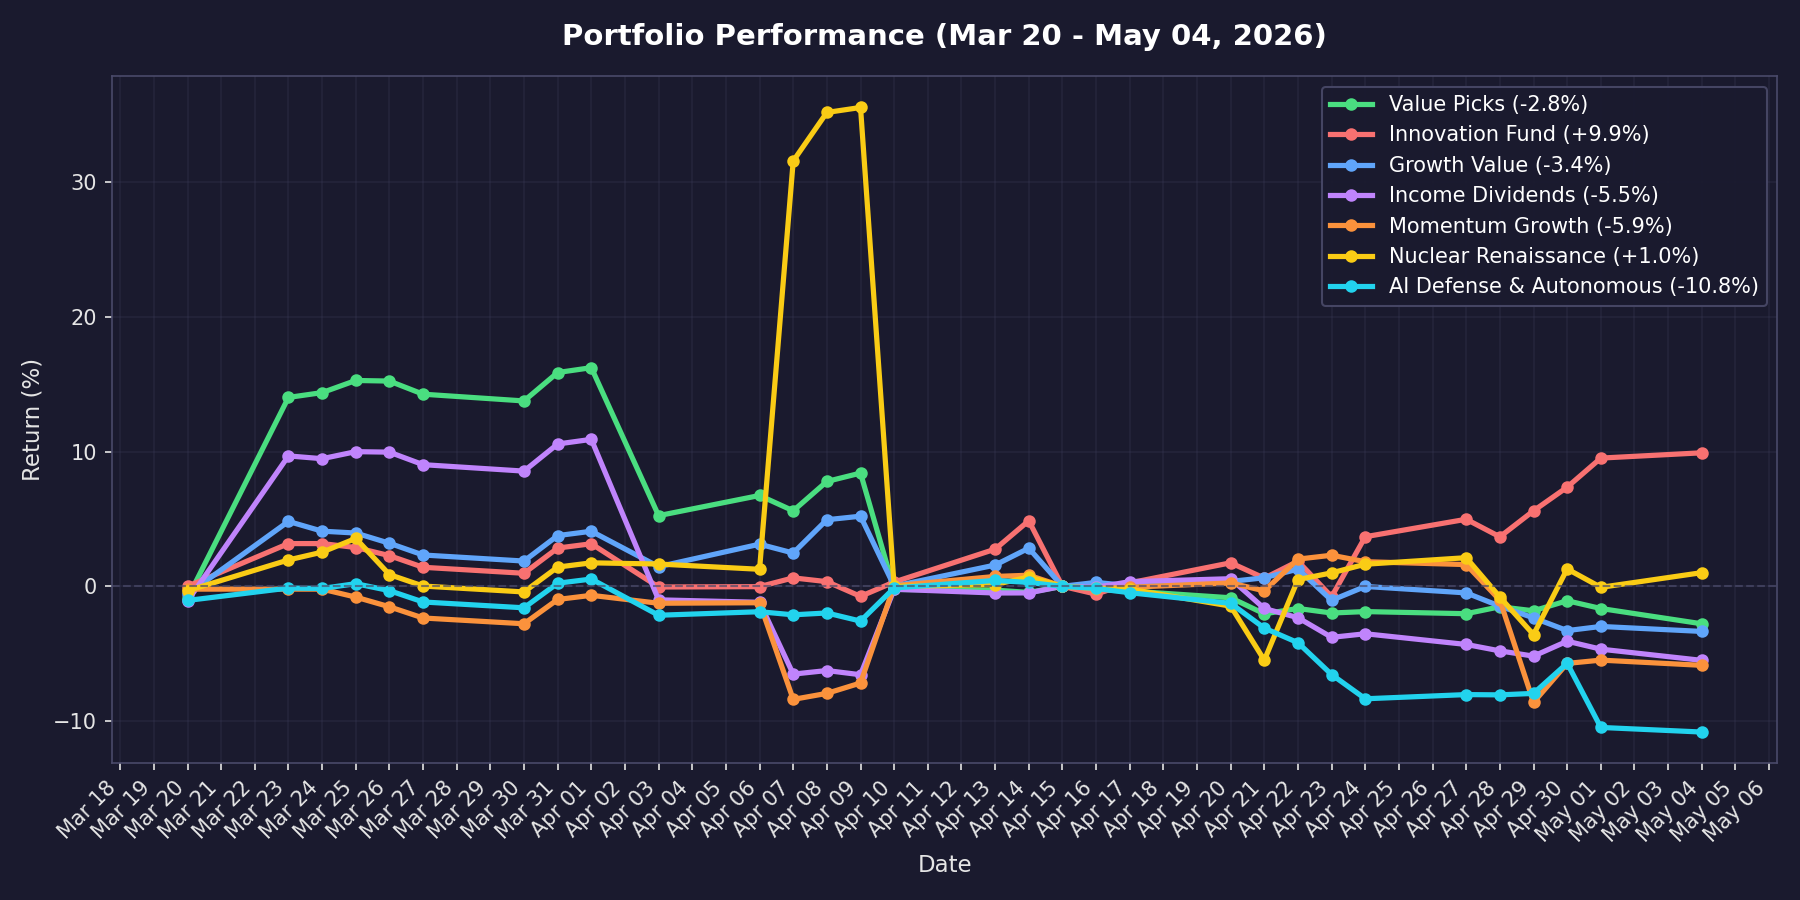
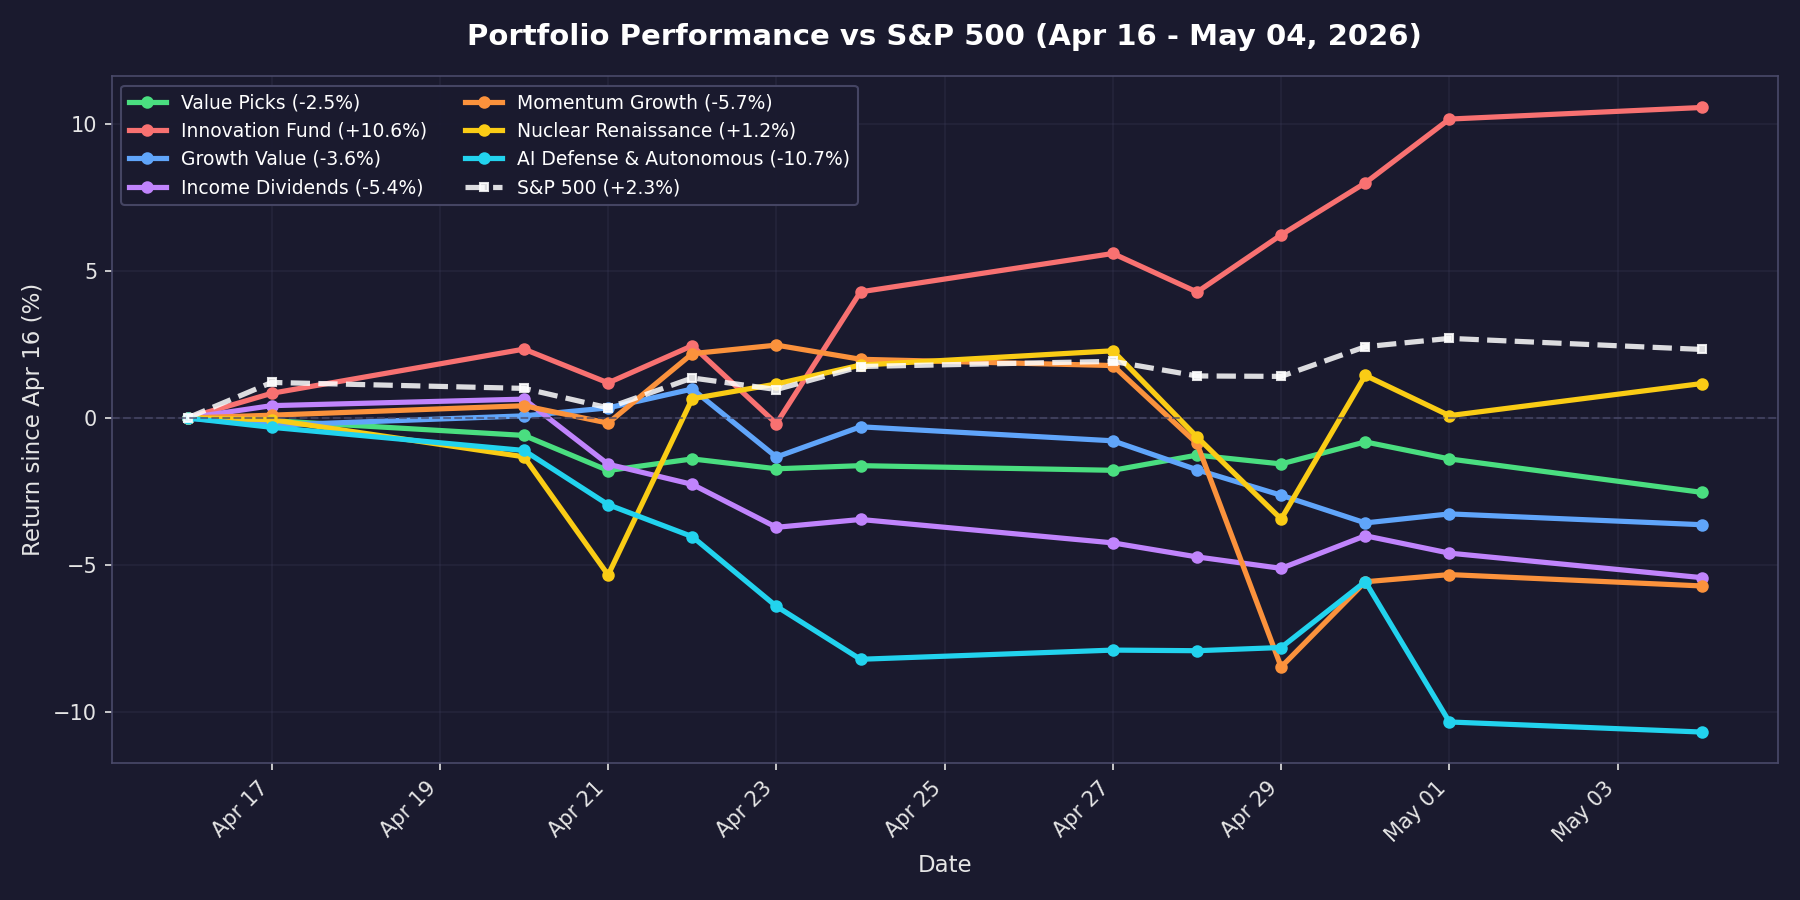
Add S&P 500 benchmark to performance chart, rebase to Apr 16 baseline
The portfolio performance chart now starts at the April 16 2026 refactor
date and rebases each portfolio to 0% on that day, so all lines (and the
new SPY benchmark) are directly comparable. SPY closes are pulled from
yfinance and rendered as a white dashed line; the chart still works if
the yfinance fetch fails (no benchmark line, portfolios still plotted).

diff --git a/src/generate_chart.py b/src/generate_chart.py
@@ -1,4 +1,5 @@
-"""Generate portfolio performance chart from daily_snapshots table."""
+"""Generate portfolio performance chart from daily_snapshots, rebased to the
+April 16 2026 refactor baseline, with an S&P 500 (SPY) overlay for comparison."""
 
 import os
 import sqlite3
@@ -7,10 +8,38 @@ import matplotlib
 matplotlib.use('Agg')
 import matplotlib.pyplot as plt
 import matplotlib.dates as mdates
+import yfinance as yf
 
 REPO_ROOT = os.path.expanduser("~/bigclaw-ai")
 DB_PATH = os.path.join(REPO_ROOT, 'src', 'portfolios.db')
 CHART_PATH = os.path.join(REPO_ROOT, 'docs', 'data', 'performance_chart.png')
+
+# Refactor baseline: portfolios were reset / IPS rules went live week of April 16
+BASELINE_DATE = '2026-04-16'
+
+
+def fetch_spy_returns(start_date: str, end_date: str):
+    """Pull SPY closes from yfinance and rebase to 0% at start_date.
+
+    Returns (dates_list, return_pct_list). On failure returns ([], []) so the
+    chart still renders without the benchmark line.
+    """
+    try:
+        # yfinance end is exclusive; pad a day to ensure we get end_date close
+        from datetime import timedelta as _td
+        end_inclusive = (datetime.strptime(end_date, '%Y-%m-%d') + _td(days=1)).strftime('%Y-%m-%d')
+        df = yf.download('SPY', start=start_date, end=end_inclusive,
+                         progress=False, auto_adjust=True)
+        if df.empty:
+            return [], []
+        closes = df['Close'].squeeze()  # collapse single-ticker MultiIndex if present
+        baseline = float(closes.iloc[0])
+        dates = [d.to_pydatetime() for d in closes.index]
+        returns = [((float(c) - baseline) / baseline) * 100 for c in closes.values]
+        return dates, returns
+    except Exception as e:
+        print(f"SPY fetch failed: {e}")
+        return [], []
 
 
 def main():
@@ -19,40 +48,55 @@ def main():
     conn.execute("PRAGMA busy_timeout=30000")
     c = conn.cursor()
 
-    # Get portfolio names
-    c.execute("SELECT id, name, starting_cash FROM portfolios WHERE is_active = 1 ORDER BY id")
-    portfolios = {row[0]: {"name": row[1], "starting": row[2]} for row in c.fetchall()}
+    c.execute("SELECT id, name FROM portfolios WHERE is_active = 1 ORDER BY id")
+    portfolios = {row[0]: {"name": row[1]} for row in c.fetchall()}
 
-    # Get all snapshots
     c.execute("""
         SELECT portfolio_id, snapshot_date, total_value
         FROM daily_snapshots
+        WHERE snapshot_date >= ?
         ORDER BY snapshot_date
-    """)
-    snapshots = c.fetchall()
+    """, (BASELINE_DATE,))
+    rows = c.fetchall()
     conn.close()
 
-    # Organize by portfolio
-    data = {pid: {"dates": [], "returns": []} for pid in portfolios}
-    for pid, date_str, total_value in snapshots:
+    # Per-portfolio: take the earliest snapshot on/after BASELINE_DATE as the
+    # baseline value, then compute % return relative to that.
+    by_pid = {pid: [] for pid in portfolios}
+    for pid, date_str, total_value in rows:
         if pid not in portfolios or not total_value:
             continue
-        starting = portfolios[pid]["starting"]
-        ret_pct = ((total_value - starting) / starting) * 100
-        data[pid]["dates"].append(datetime.strptime(date_str[:10], "%Y-%m-%d"))
-        data[pid]["returns"].append(ret_pct)
+        by_pid[pid].append((datetime.strptime(date_str[:10], "%Y-%m-%d"), float(total_value)))
 
-    # Check we have data
+    data = {}
+    for pid, series in by_pid.items():
+        if not series:
+            data[pid] = {"dates": [], "returns": []}
+            continue
+        baseline = series[0][1]
+        data[pid] = {
+            "dates": [d for d, _ in series],
+            "returns": [((v - baseline) / baseline) * 100 for _, v in series],
+        }
+
     has_data = any(len(d["dates"]) > 0 for d in data.values())
     if not has_data:
         print("No snapshot data to chart")
         return False
 
     for pid in portfolios:
-        print(f"  {portfolios[pid]['name']}: {len(data[pid]['dates'])} data points, "
-              f"latest return: {data[pid]['returns'][-1]:+.2f}%" if data[pid]['returns'] else "no data")
+        if data[pid]['returns']:
+            print(f"  {portfolios[pid]['name']}: {len(data[pid]['dates'])} pts, "
+                  f"latest: {data[pid]['returns'][-1]:+.2f}%")
 
-    # Generate chart
+    # SPY benchmark: align to portfolio date range
+    all_dates = [d for s in data.values() for d in s["dates"]]
+    spy_start = BASELINE_DATE
+    spy_end = max(all_dates).strftime('%Y-%m-%d')
+    spy_dates, spy_returns = fetch_spy_returns(spy_start, spy_end)
+    if spy_returns:
+        print(f"  S&P 500 (SPY): {len(spy_dates)} pts, latest: {spy_returns[-1]:+.2f}%")
+
     plt.style.use('dark_background')
     fig, ax = plt.subplots(figsize=(12, 6))
     fig.patch.set_facecolor('#1a1a2e')
@@ -79,25 +123,28 @@ def main():
                 label=f"{name} ({last_ret:+.1f}%)",
                 linewidth=2.5, color=color, marker='o', markersize=5)
 
-    ax.set_xlabel('Date', fontsize=11, color='#e5e5e5')
-    ax.set_ylabel('Return (%)', fontsize=11, color='#e5e5e5')
+    if spy_returns:
+        ax.plot(spy_dates, spy_returns,
+                label=f"S&P 500 ({spy_returns[-1]:+.1f}%)",
+                linewidth=2.5, color='#ffffff', linestyle='--',
+                marker='s', markersize=4, alpha=0.85)
 
-    # Dynamic date range in title
-    all_dates = []
-    for d in data.values():
-        all_dates.extend(d["dates"])
+    ax.set_xlabel('Date', fontsize=11, color='#e5e5e5')
+    ax.set_ylabel('Return since Apr 16 (%)', fontsize=11, color='#e5e5e5')
+
     if all_dates:
         start = min(all_dates).strftime('%b %d')
         end = max(all_dates).strftime('%b %d, %Y')
-        ax.set_title(f'Portfolio Performance ({start} - {end})',
+        ax.set_title(f'Portfolio Performance vs S&P 500 ({start} - {end})',
                      fontsize=14, fontweight='bold', color='white', pad=15)
 
     ax.axhline(y=0, color='#4a4a6a', linestyle='--', linewidth=1, alpha=0.7)
     ax.xaxis.set_major_formatter(mdates.DateFormatter('%b %d'))
-    ax.xaxis.set_major_locator(mdates.DayLocator(interval=1))
+    ax.xaxis.set_major_locator(mdates.DayLocator(interval=2))
     plt.xticks(rotation=45, ha='right')
     ax.grid(True, alpha=0.2, color='#4a4a6a')
-    ax.legend(loc='best', framealpha=0.9, facecolor='#1a1a2e', edgecolor='#4a4a6a')
+    ax.legend(loc='best', framealpha=0.9, facecolor='#1a1a2e',
+              edgecolor='#4a4a6a', ncol=2, fontsize=9)
 
     for spine in ax.spines.values():
         spine.set_color('#4a4a6a')

diff --git a/DESIGN_BASIS.md b/DESIGN_BASIS.md
@@ -835,7 +835,7 @@ All JSON data in `docs/data/` is auto-refreshed and pushed to GitHub Pages:
 | `news.json` | Financial news headlines (Motley Fool RSS) | 1×/day |
 | `options_flow.json` | Per-ticker max pain, IV rank, bullish/bearish premium; sector ETF flow; dark pool blocks | Via options_intelligence.py |
 | `metadata.json` | Last update timestamps, export status | Every refresh |
-| `performance_chart.png` | Portfolio performance comparison chart | 1×/day |
+| `performance_chart.png` | Portfolio performance vs S&P 500 (SPY), rebased to Apr 16 2026 refactor baseline | 1×/day |
 
 **Note**: `price_refresh.py` preserves sector data in `market.json` when refreshing index prices — it merges rather than overwrites.
 
